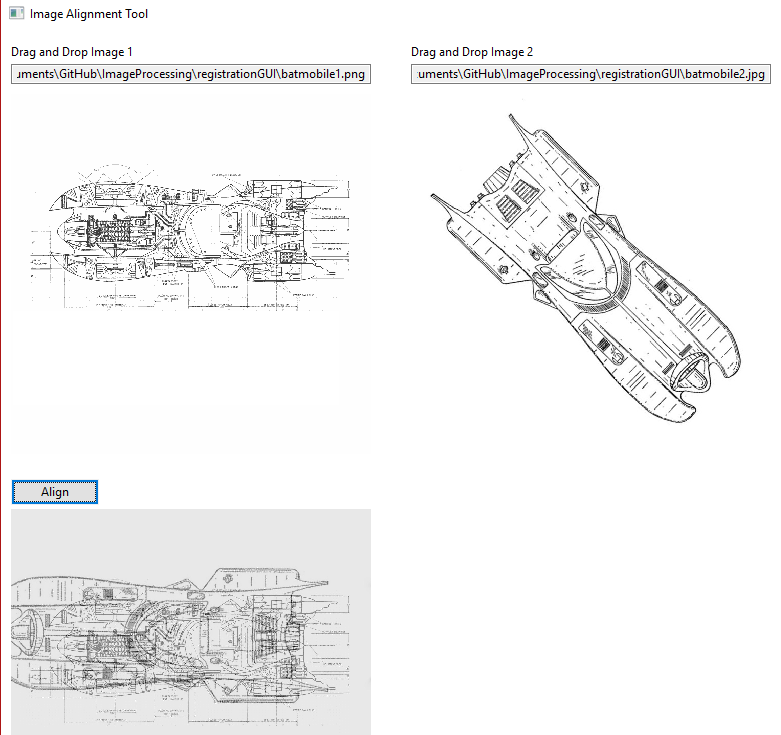
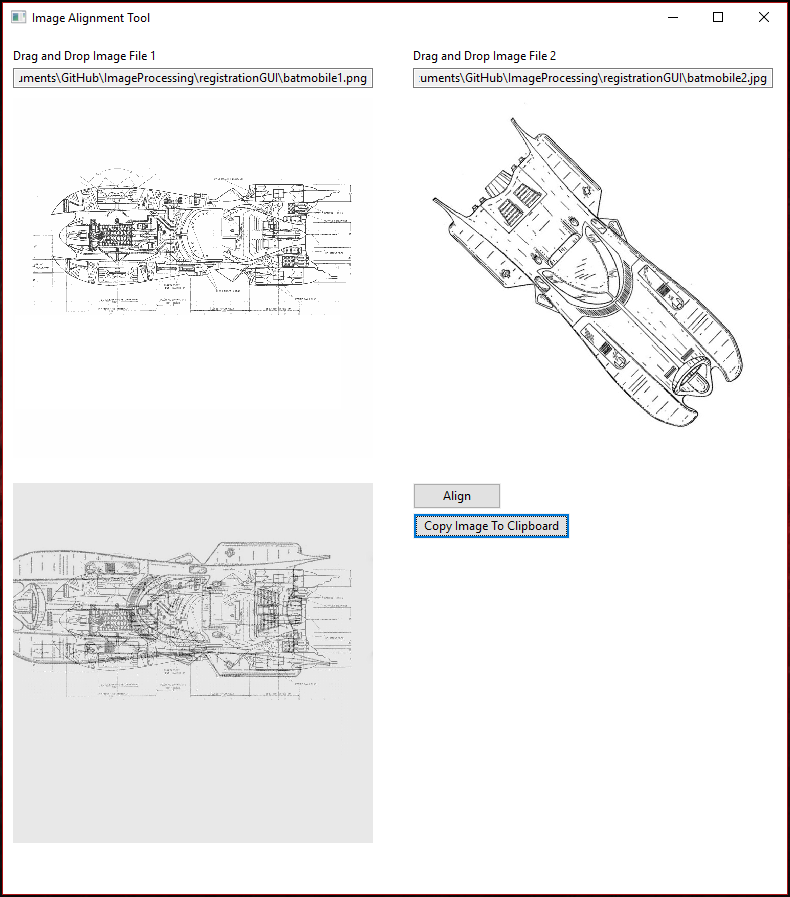
added threading to prevent GUI from locking up

Changed region(s): [[0.0, 0.0, 1.0, 1.0], [0.5224, 0.5388, 0.7375, 0.5986]]

diff --git a/registrationGUI/imageRegGUI.py b/registrationGUI/imageRegGUI.py
@@ -5,6 +5,7 @@ import PyQt5
 from PyQt5 import QtCore, QtGui, QtWidgets
 from PyQt5.QtGui import QImage
 import os
+from threading import Thread
 
 ThumbMaxSize = 360
 image2scaledFile = "image2scaled.jpg"
@@ -98,38 +99,7 @@ class MainWindow(wx.Frame):
         path2 = self.text2.GetValue()
         
         if(path1 != NoFileSelected and path2 != NoFileSelected):
-            self.alignStatus.Show() #does not work, needs threading
-
-            # scale image 2
-            im1wx = wx.Image(path1, wx.BITMAP_TYPE_ANY)
-            im2wx = wx.Image(path2, wx.BITMAP_TYPE_ANY)
-            w1 = im1wx.GetWidth()
-            h1 = im1wx.GetHeight()
-            w2 = im2wx.GetWidth()
-            h2 = im2wx.GetHeight()
-            im2scaled = im2wx.Scale(w1,h1) # not a good scaling method
-            im2scaled.SaveFile(image2scaledFile)
-
-            # read in image 1 and scaled image 2
-            im1 = sp.misc.imread(path1,True)
-            im2 = sp.misc.imread(image2scaledFile,True)
-
-            # align image 2
-            result = ird.similarity(im1, im2, numiter=3)
-            assert "timg" in result
-            im2aligned = result['timg']
-
-            # overlay
-            overlay = im1 + im2aligned
-            sp.misc.imsave(overlayFile,overlay)
-
-            # display overlay
-            self.img3 = wx.Image(overlayFile, wx.BITMAP_TYPE_ANY)
-            img3resized = self.img3.Scale(OutputMaxSize,OutputMaxSize)
-            self.imageCtrl3.SetBitmap(wx.Bitmap(img3resized))
-            self.Refresh()
-
-            self.alignStatus.Hide()
+            worker = AlignWorkerThread(self, path1, path2)
 
     def onCopyToClipboard(self, button):
         # check that im3 exists
@@ -146,6 +116,50 @@ class MainWindow(wx.Frame):
         url = QtCore.QUrl.fromLocalFile(overlayFilePath)
         data.setUrls([url])
         app.clipboard().setMimeData(data)
+
+class AlignWorkerThread(Thread):
+    
+    def __init__(self, frame, path1, path2):
+        Thread.__init__(self)
+        self.frame = frame
+        self.path1 = path1
+        self.path2 = path2
+        self.start()
+    
+    def run(self):
+        # this needs to be in a thread to not lock up the gui
+        self.frame.alignStatus.Show() 
+
+        # scale image 2
+        im1wx = wx.Image(self.path1, wx.BITMAP_TYPE_ANY)
+        im2wx = wx.Image(self.path2, wx.BITMAP_TYPE_ANY)
+        w1 = im1wx.GetWidth()
+        h1 = im1wx.GetHeight()
+        w2 = im2wx.GetWidth()
+        h2 = im2wx.GetHeight()
+        im2scaled = im2wx.Scale(w1,h1) # not a good scaling method
+        im2scaled.SaveFile(image2scaledFile)
+
+        # read in image 1 and scaled image 2
+        im1 = sp.misc.imread(self.path1,True)
+        im2 = sp.misc.imread(image2scaledFile,True)
+
+        # align image 2
+        result = ird.similarity(im1, im2, numiter=3)
+        assert "timg" in result
+        im2aligned = result['timg']
+
+        # overlay
+        overlay = im1 + im2aligned
+        sp.misc.imsave(overlayFile,overlay)
+
+        # display overlay
+        self.frame.img3 = wx.Image(overlayFile, wx.BITMAP_TYPE_ANY)
+        img3resized = self.frame.img3.Scale(OutputMaxSize,OutputMaxSize)
+        self.frame.imageCtrl3.SetBitmap(wx.Bitmap(img3resized))
+        self.frame.Refresh()
+
+        self.frame.alignStatus.Hide()
 
 class MyApp(wx.App):
     """ Define the Drag and Drop Example Application """
